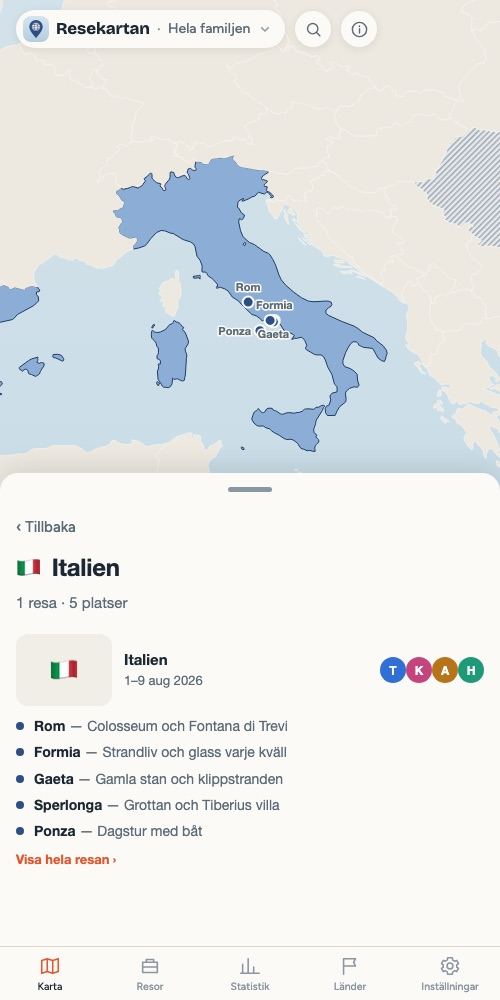
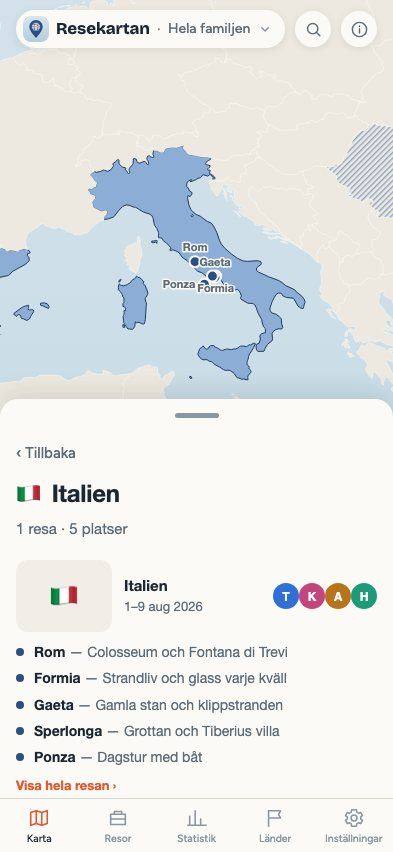
Skärmdumparna i riktigt telefonformat, och ett skript som tar om dem
Bilderna var 500×1000: headless Chrome golvar bredden vid 500 px, så
appen ritades som på en liten padda i stället för en telefon – fel
proportioner och fel layout. Nu körs den i en iframe på 393×852 som
beskärs efteråt.

scripts/skarmdumpar.sh gör hela proceduren, och tar en mapp med foton som
argument: de läggs in på Italien-resan, krymps till samma storlekar som
appen själv sparar, och ger både omslag och galleri i bilderna.

Claude-Session: https://claude.ai/code/session_01Wu3cv2xDEr3HrUYMerHgDB

diff --git a/om/index.html b/om/index.html
@@ -108,7 +108,7 @@ footer a{color:var(--text-2)}
       Ett tryck på ett land visar allt ni gjort där.</p>
     <a class="knapp" href="/">Öppna Resekartan</a>
     <span class="liten">Familjeapp – kräver inloggning</span>
-    <div class="heltbild"><img src="bilder/karta.jpg" width="500" height="1000"
+    <div class="heltbild"><img src="bilder/karta.jpg" width="393" height="852"
       alt="Världskartan med besökta länder i blått och en lista över de senaste resorna"></div>
   </div>
 </header>
@@ -116,7 +116,7 @@ footer a{color:var(--text-2)}
 <main class="inre">
 
   <section class="rad vand">
-    <div class="bild"><img src="bilder/land.jpg" width="500" height="1000" loading="lazy"
+    <div class="bild"><img src="bilder/land.jpg" width="393" height="852" loading="lazy"
       alt="Italien inzoomat med utsatta orter: Rom, Formia, Gaeta, Sperlonga och Ponza"></div>
     <div class="text">
       <h2>Tryck på ett land</h2>
@@ -138,12 +138,12 @@ footer a{color:var(--text-2)}
         <li><b>Planerade resor</b> syns på kartan men räknas inte i statistiken förrän ni varit där</li>
       </ul>
     </div>
-    <div class="bild"><img src="bilder/resa.jpg" width="500" height="1000" loading="lazy"
+    <div class="bild"><img src="bilder/resa.jpg" width="393" height="852" loading="lazy"
       alt="Resan Italien med datum, orter, resenärer och ett minne från resan"></div>
   </section>
 
   <section class="rad vand">
-    <div class="bild"><img src="bilder/stat.jpg" width="500" height="1000" loading="lazy"
+    <div class="bild"><img src="bilder/stat.jpg" width="393" height="852" loading="lazy"
       alt="Statistik med antal länder, platser, resor och resdagar, länder per person och längst hemifrån"></div>
     <div class="text">
       <h2>Siffrorna man vill ha</h2>

diff --git a/README.md b/README.md
@@ -47,17 +47,24 @@ hand, och loggan är en kopia av symbolen i `index.html`.
 
 **Skärmdumparna visar exempeldatat i `data/seed.js`, aldrig familjens riktiga
 resor.** Sidan är publik och repot är publikt, så det är inte en detalj att vara
-slarvig med. De tas om med headless Chrome mot en lokal kopia där
-`data/firebase-config.js` är tömd:
+slarvig med.
 
 ```sh
---window-size=500,1000 --force-prefers-reduced-motion=reduce
+scripts/skarmdumpar.sh                # bara appen
+scripts/skarmdumpar.sh ~/nagra-foton  # med bilder inlagda på Italien-resan
 ```
 
-Två saker som krävs för att de ska bli rätt: bredden golvas vid 500 i headless
-(mindre `--window-size` ger ändå 500 och en beskuren bild), och utan reducerad
-rörelse hinner kartans flygning inte bli klar – d3:s övergångar drivs inte av
-den virtuella tiden.
+Skriptet kopierar repot till en temporär mapp, tömmer `data/firebase-config.js`
+så appen kör på seed-datat, kör headless Chrome och skriver till `om/bilder/`.
+
+Två fällor som kostade en stund första gången, båda inbyggda i skriptet nu:
+
+- **Headless golvar bredden vid 500 px.** Ett mindre `--window-size` ger ändå 500,
+  och appen ritas då som på en liten padda. Den körs därför i en iframe på
+  393×852 som beskärs efteråt, så både format och layout blir en riktig telefon.
+- **`--force-prefers-reduced-motion` krävs**, annars hinner kartans flygning
+  aldrig bli klar: d3:s övergångar drivs inte av den virtuella tiden, och man får
+  en bild av världskartan där ett inzoomat land skulle stått.
 
 ## Status
 
